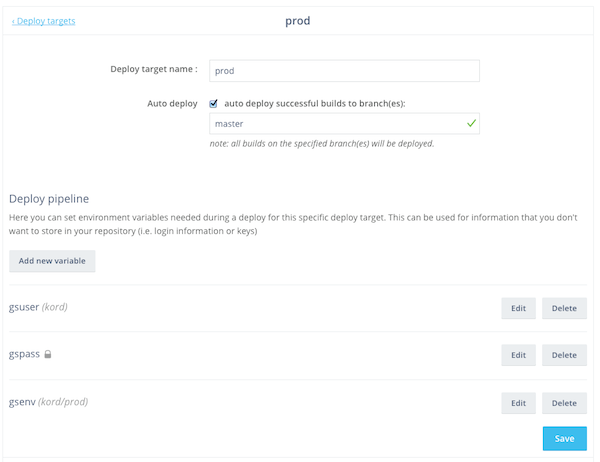
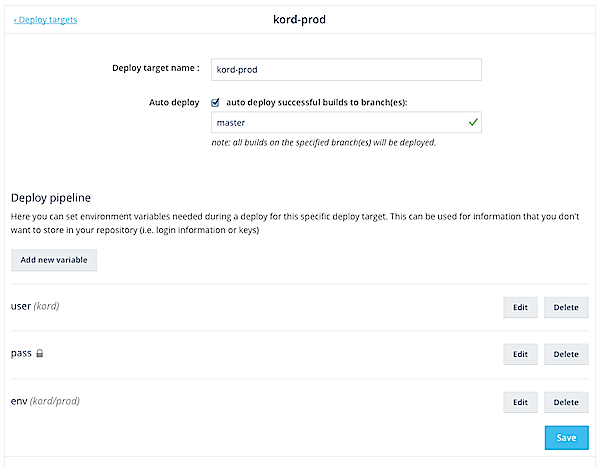
fix image.

diff --git a/README.md b/README.md
@@ -54,12 +54,12 @@ At the top right of the `swarm-wercker` project, click on the `gear icon` to vie
 
 ![deploy](https://raw.githubusercontent.com/giantswarm/swarm-wercker/master/static/deploy.png)
 
-Click save and then click on the `add new variable` button. You will need to create three variables, one named `gsuser`, one named `gspass`, and one name `gsenv`, all of which you can reference in the image above.
+Click save and then click on the `add new variable` button. You will need to create three variables, one named `user`, one named `pass`, and one name `env`, all of which you can reference in the image above.
 
 These values will be, respectively, your Giant Swarm username, password and [desired environment](https://docs.giantswarm.io/reference/cli/env/) (which usually defaults to `<username>/dev`). Be sure to check the `protected` checkbox before clicking on `ok` when adding the password variable!
 
 *Note: From a security perspective, using a username and password from one site in another site is less than ideal. While Giant Swarm supports tokenized operations via our API, we do not (yet) support them with our hosted Docker registry. Please contact me ([@kordless](https://twitter.com/kordless)) for more information on how to address this issue.*
 
-#### Build the Project
-Builds and deploys for your new project occur when you 
+#### Build and Deploy the Project
+Builds and deploys for the project occur when you do code pushes to the `master` branch of your newly forked `swarm-wercker` repo. To trigger the build, navigate back to the project's repo in your Github account and 
 
